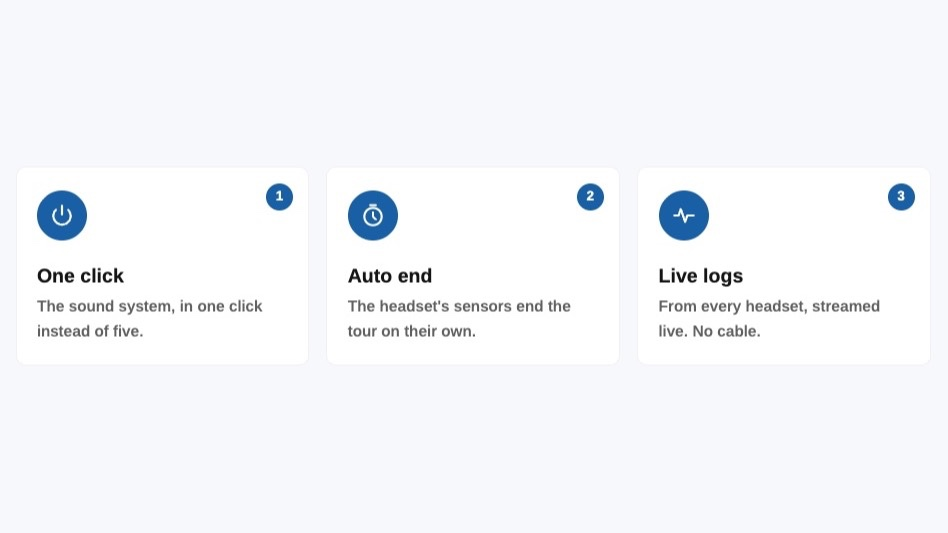
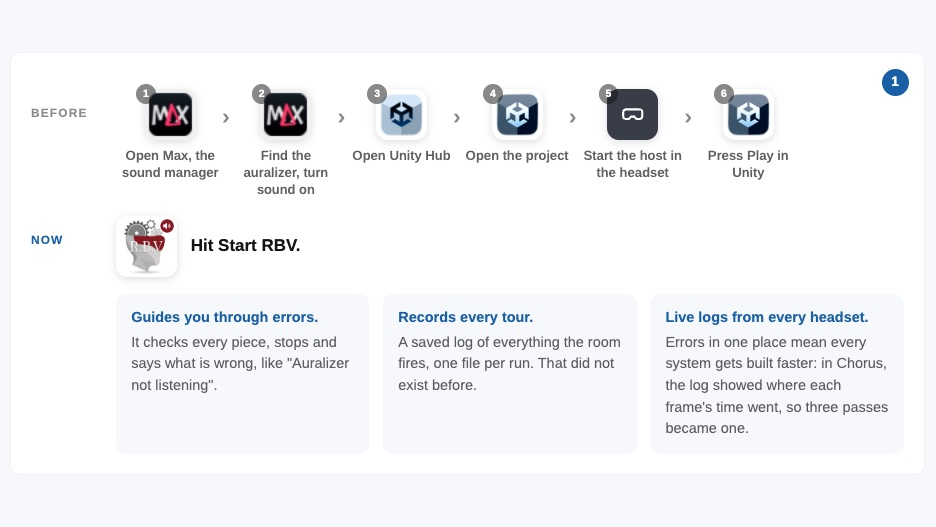
What the one button now does that the six steps never did
His note: work "never fails silently" into the Now step, show how it guides
people through errors and records and saves logs (which did not exist
before), and find a real image for Open Max.

The third card is gone; its point now sits under "Hit Start RBV." as three
short notes, each from the Unity repo's tools/ppt1-demo/README.md:
Guides you through errors (it checks each piece, stops and says what is
wrong, like the console's "Auralizer not listening"); Records every tour
(the tour log, one file per run, 3be0aab2); Live logs from every headset,
keeping the Chorus example. Auto end now takes the full row.

Open Max and Find the auralizer now show Max's own icon, cropped from the
"Recover edits?" dialog in the repo's startup runbook screenshots
(docs/runbooks/images/ppt1-demo-startup), since Max is not installed here.
The 01 jump pill's hover preview was the old three-card row, so it is
re-shot from the new card.

Not done: a picture of the desktop app from inside. No screenshot of the
room console exists in the repo or on this Mac, and the app only runs on the
PPT1 PC; its -console-screenshot flag can make one there.

VERIFIED in headless Chrome: at 1280 the three notes sit in a row under Now
in the content column, and at 390 they stack with scrollWidth 390 and nothing
overflowing (captures checked).

diff --git a/rbv.html b/rbv.html
@@ -908,13 +908,17 @@
     /* Auto end takes the red of its own countdown card in the headset
        (HostPalette.Destructive, #a32d2d). */
     #reliable .step.red{ --cat:#a32d2d; --cat-ink:#a32d2d; }
-    #reliable .steps{ grid-template-columns:repeat(2, minmax(0,1fr)); }
+    #reliable .steps{ grid-template-columns:minmax(0,1fr); }
+    .now-does{ list-style:none; display:grid; grid-template-columns:repeat(3, minmax(0,1fr)); gap:0.8rem; margin:0.2rem 0 0; grid-column:2; }
+    .now-does li{ padding:0.8rem 0.9rem; border-radius:10px; background:var(--wash-soft); font-size:0.85rem; line-height:1.5; color:var(--ink-soft); }
+    .now-does b{ display:block; color:var(--cat-ink); font-weight:800; margin-bottom:0.15rem; }
     #experience-path .tile-media img{ object-position:left top; }
     @media(max-width:768px){
       .startup-row{ grid-template-columns:1fr; gap:0.4rem; }
       .startup-tag{ padding-top:0; }
       .flow li{ width:4.8rem; font-size:0.72rem; }
       .flow li + li::after{ display:none; }
+      .now-does{ grid-template-columns:minmax(0,1fr); grid-column:1; }
       #reliable .steps{ grid-template-columns:minmax(0,1fr); }
     }
   </style>
@@ -1008,8 +1012,8 @@
             <div class="startup-row">
               <span class="startup-tag">Before</span>
               <ol class="flow">
-                <li><span class="app glyph" aria-hidden="true"><svg viewBox="0 0 24 24"><path d="M3 12h2M7 8v8M11 5v14M15 8v8M19 11v2"/></svg></span>Open Max, the sound manager</li>
-                <li><span class="app glyph" aria-hidden="true"><svg viewBox="0 0 24 24"><path d="M3 12h2M7 8v8M11 5v14M15 8v8M19 11v2"/></svg></span>Find the auralizer, turn sound on</li>
+                <li><img class="app" src="images/rbv-logo-max.png" alt="" width="96" height="96">Open Max, the sound manager</li>
+                <li><img class="app" src="images/rbv-logo-max.png" alt="" width="96" height="96">Find the auralizer, turn sound on</li>
                 <li><img class="app" src="images/rbv-logo-unity-hub.png" alt="" width="128" height="128">Open Unity Hub</li>
                 <li><img class="app" src="images/rbv-logo-unity.png" alt="" width="128" height="128">Open the project</li>
                 <li><span class="app glyph" aria-hidden="true"><svg viewBox="0 0 24 24"><path d="M3 9.5a2.5 2.5 0 0 1 2.5-2.5h13A2.5 2.5 0 0 1 21 9.5v4a2.5 2.5 0 0 1-2.5 2.5h-3l-2-2.2h-3L8.5 16h-3A2.5 2.5 0 0 1 3 13.5z"/></svg></span>Start the host in the headset</li>
@@ -1021,6 +1025,13 @@
               <ol class="flow">
                 <li><img class="app" src="images/rbv-logo-start-rbv.png" alt="" width="160" height="160">Hit Start RBV.</li>
               </ol>
+              <!-- Never fails silently, folded in here by request: what the
+                   one button does now that the old way never did. -->
+              <ul class="now-does">
+                <li><b>Guides you through errors.</b> It checks every piece, stops and says what is wrong, like "Auralizer not listening".</li>
+                <li><b>Records every tour.</b> A saved log of everything the room fires, one file per run. That did not exist before.</li>
+                <li><b>Live logs from every headset.</b> Errors in one place mean every system gets built faster: in Chorus, the log showed where each frame's time went, so three passes became one.</li>
+              </ul>
             </div>
           </div>
         </li>
@@ -1028,11 +1039,6 @@
           <svg viewBox="0 0 24 24" aria-hidden="true"><circle cx="12" cy="13" r="8"/><path d="M12 9v4l2.5 2.5"/><path d="M9.5 2.5h5"/></svg>
           <p class="step-title">Auto end</p>
           <p class="step-line">The headset's sensors end the tour on their own.</p>
-        </li>
-        <li class="step">
-          <svg viewBox="0 0 24 24" aria-hidden="true"><path d="M3 12h4l2-6 4 12 2-6h6"/></svg>
-          <p class="step-title">Never fails silently</p>
-          <p class="step-line">Live logs from every headset, gathered in one place, so every system now gets built far faster. In Chorus, the log showed where each frame's time went, step by step, so three passes became one.</p>
         </li>
       </ol>
     </div>
